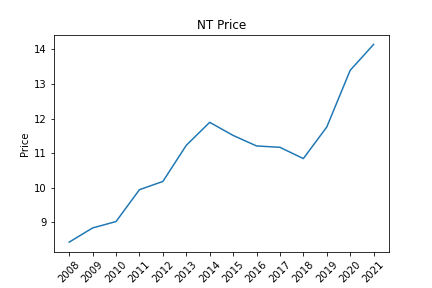
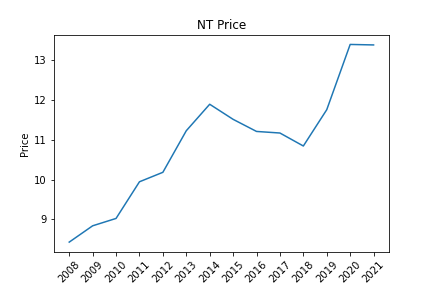
bug fixes

diff --git a/test.py b/test.py
@@ -78,10 +78,10 @@ def calculate_mean_price(customer_type, val_yearly_demand):
     industrie_prices_without_VAT.index = industrie_prices_without_VAT.index.astype(str)
     industrie_prices_without_VAT.index= industrie_prices_without_VAT.index.str.slice(start = 0, stop = -6)
     
-    ht_industrie_prices_without_VAT = industrie_prices_without_VAT.price 
-    nt_industrie_prices_without_VAT = industrie_prices_without_VAT.price 
-    ht_industrie_prices_without_VAT = ht_industrie_prices_without_VAT.reset_index()
-    nt_industrie_prices_without_VAT = nt_industrie_prices_without_VAT.reset_index()
+    # ht_industrie_prices_without_VAT = industrie_prices_without_VAT.price 
+    # nt_industrie_prices_without_VAT = industrie_prices_without_VAT.price 
+    # ht_industrie_prices_without_VAT = ht_industrie_prices_without_VAT.reset_index()
+    # nt_industrie_prices_without_VAT = nt_industrie_prices_without_VAT.reset_index()
     
     industrie_prices_without_VAT = industrie_prices_without_VAT.reset_index()
     industrie_prices_without_VAT = industrie_prices_without_VAT[industrie_prices_without_VAT.year >= str(2016)]
@@ -284,6 +284,7 @@ def calculate_mean_price(customer_type, val_yearly_demand):
                 val1 = float(val1)
                 val2 = input("Enter NT value: ")
                 val2 = float(val2)
+                ht_industrie_prices_without_VAT = industrie_prices_without_VAT
                 ht_industrie_prices_without_VAT["year"] = ht_industrie_prices_without_VAT["year"].astype(int)
                 ht_year = ht_industrie_prices_without_VAT["year"]
                 ht_price = ht_industrie_prices_without_VAT["price"] * ht_factor
@@ -295,6 +296,7 @@ def calculate_mean_price(customer_type, val_yearly_demand):
                 plotting(ht_new_year, ht_new_price, "HT Price", "Year", "Price", "images/HT Price.png")
                 # plotting(nt_new_year, nt_new_price, "NT Price", "Year", "Price", "images/NT Price.png")
 
+                nt_industrie_prices_without_VAT = industrie_prices_without_VAT
                 nt_industrie_prices_without_VAT["year"] = nt_industrie_prices_without_VAT["year"].astype(int)
                 nt_year = nt_industrie_prices_without_VAT["year"]
                 nt_price = nt_industrie_prices_without_VAT["price"] * nt_factor
@@ -396,9 +398,9 @@ def calculate_mean_price(customer_type, val_yearly_demand):
 
         elif (val == 1):
             yt_industrie_prices_without_VAT = mid_industrie_prices
-            yt_industrie_prices_without_VAT["year"] = ht_industrie_prices_without_VAT["year"].astype(int)
-            yt_year = ht_industrie_prices_without_VAT["year"]
-            yt_price = ht_industrie_prices_without_VAT["price"]
+            yt_industrie_prices_without_VAT["year"] = yt_industrie_prices_without_VAT["year"].astype(int)
+            yt_year = yt_industrie_prices_without_VAT["year"]
+            yt_price = yt_industrie_prices_without_VAT["price"]
             f = interpolate.interp1d(yt_year, yt_price, fill_value = "extrapolate")
             p_2021 = f(2021)
 
